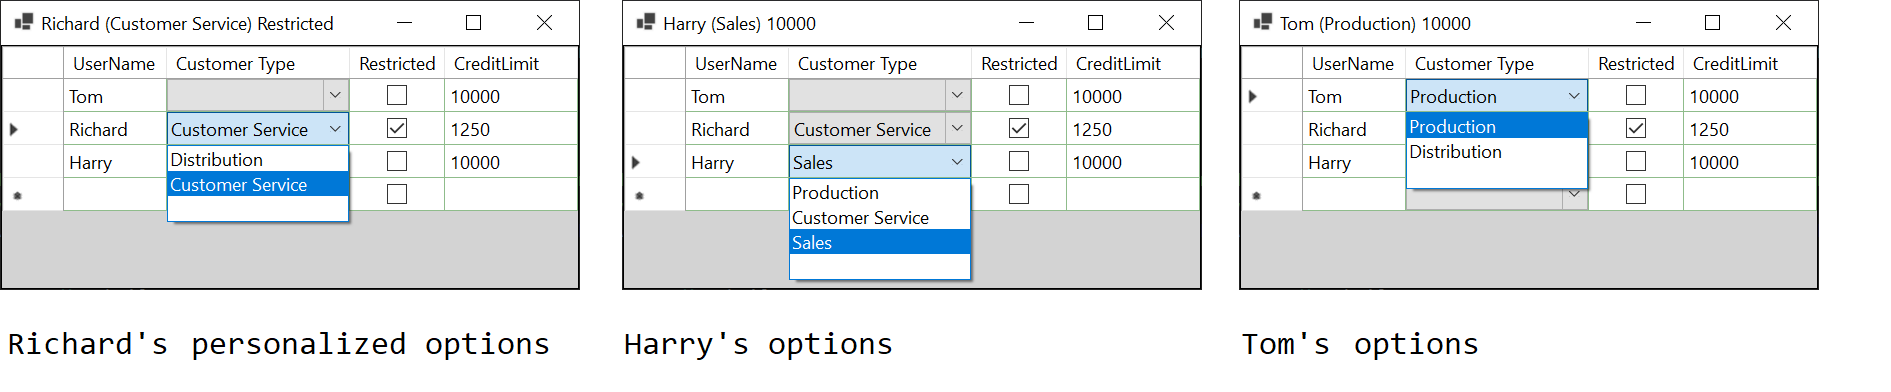
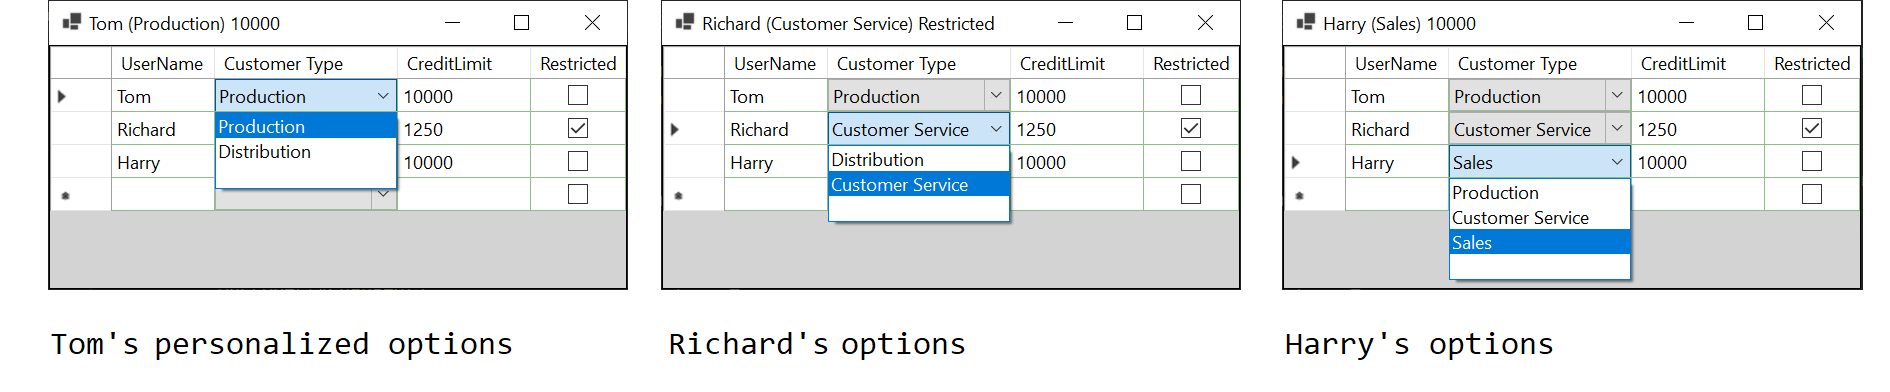
minor code fixes

diff --git a/display_/CreditUserLimitsForm.cs b/display_/CreditUserLimitsForm.cs
@@ -33,7 +33,7 @@ namespace display_multiple_values_in_dgv_column
             // Swap out the autogenerated column
             var index = dataGridViewCreditUser.Columns[nameof(CreditUser.CustomerType)].Index;
             dataGridViewCreditUser.Columns.RemoveAt(index);
-            dataGridViewCreditUser.Columns.Insert(1, colCB);
+            dataGridViewCreditUser.Columns.Insert(index, colCB);
 
             // Cancel the known exception caused by clearing the data source.
             dataGridViewCreditUser.DataError += (sender, e) =>
@@ -166,20 +166,6 @@ namespace display_multiple_values_in_dgv_column
                 }
             }
         }
-
-        bool _Restricted = false;
-        public bool Restricted
-        {
-            get => _Restricted;
-            set
-            {
-                if (!Equals(_Restricted, value))
-                {
-                    _Restricted = value;
-                    OnPropertyChanged();
-                }
-            }
-        }
         string _CustomerType = String.Empty;
         public string CustomerType
         {
@@ -202,6 +188,20 @@ namespace display_multiple_values_in_dgv_column
                 if (!Equals(_CreditLimit, value))
                 {
                     _CreditLimit = value;
+                    OnPropertyChanged();
+                }
+            }
+        }
+
+        bool _Restricted = false;
+        public bool Restricted
+        {
+            get => _Restricted;
+            set
+            {
+                if (!Equals(_Restricted, value))
+                {
+                    _Restricted = value;
                     OnPropertyChanged();
                 }
             }
